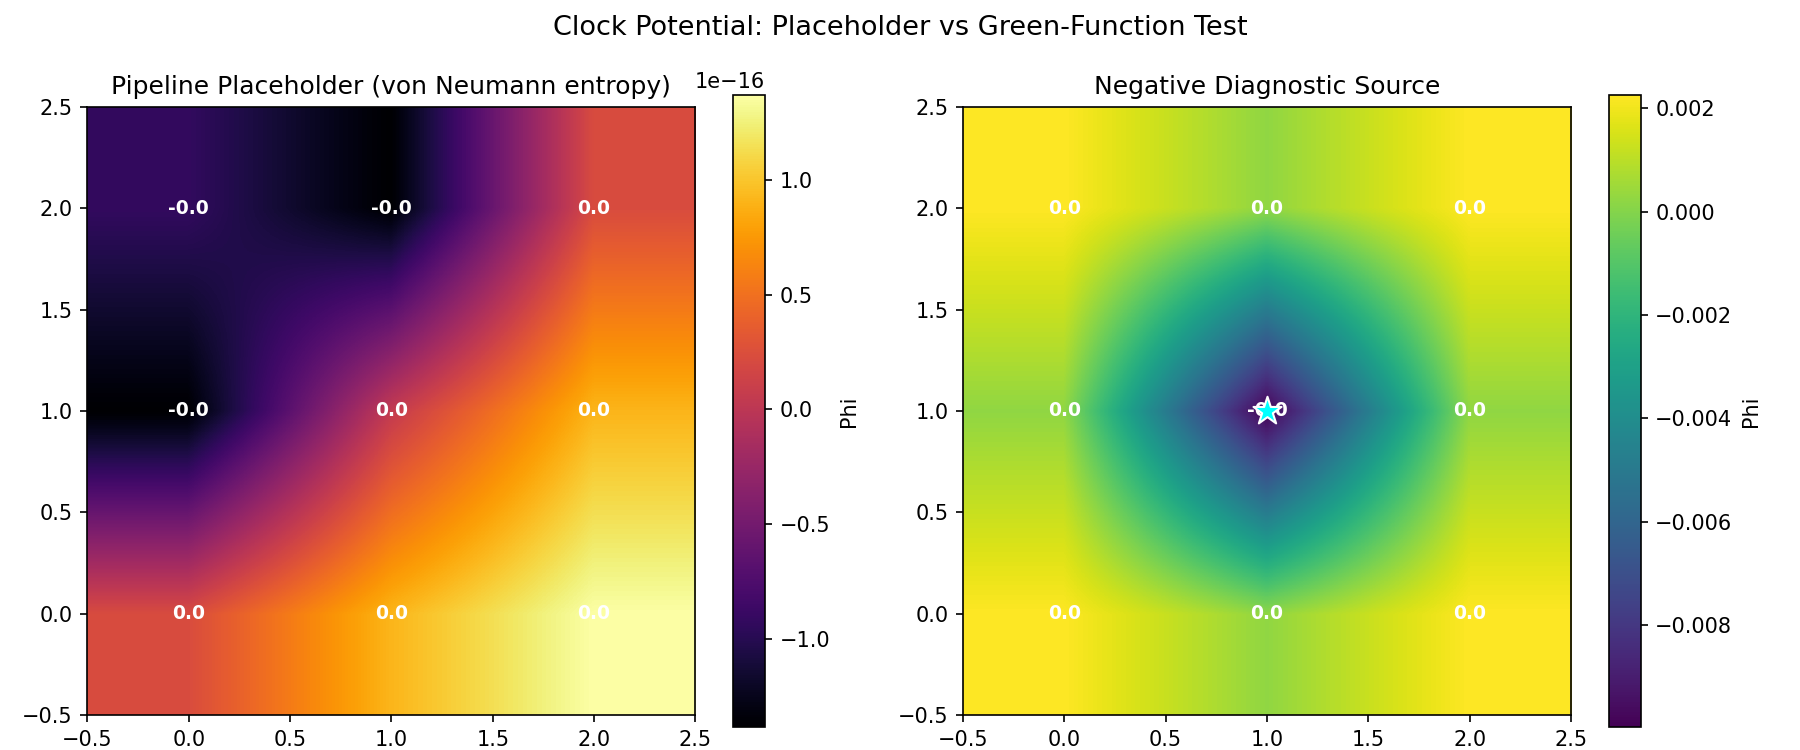
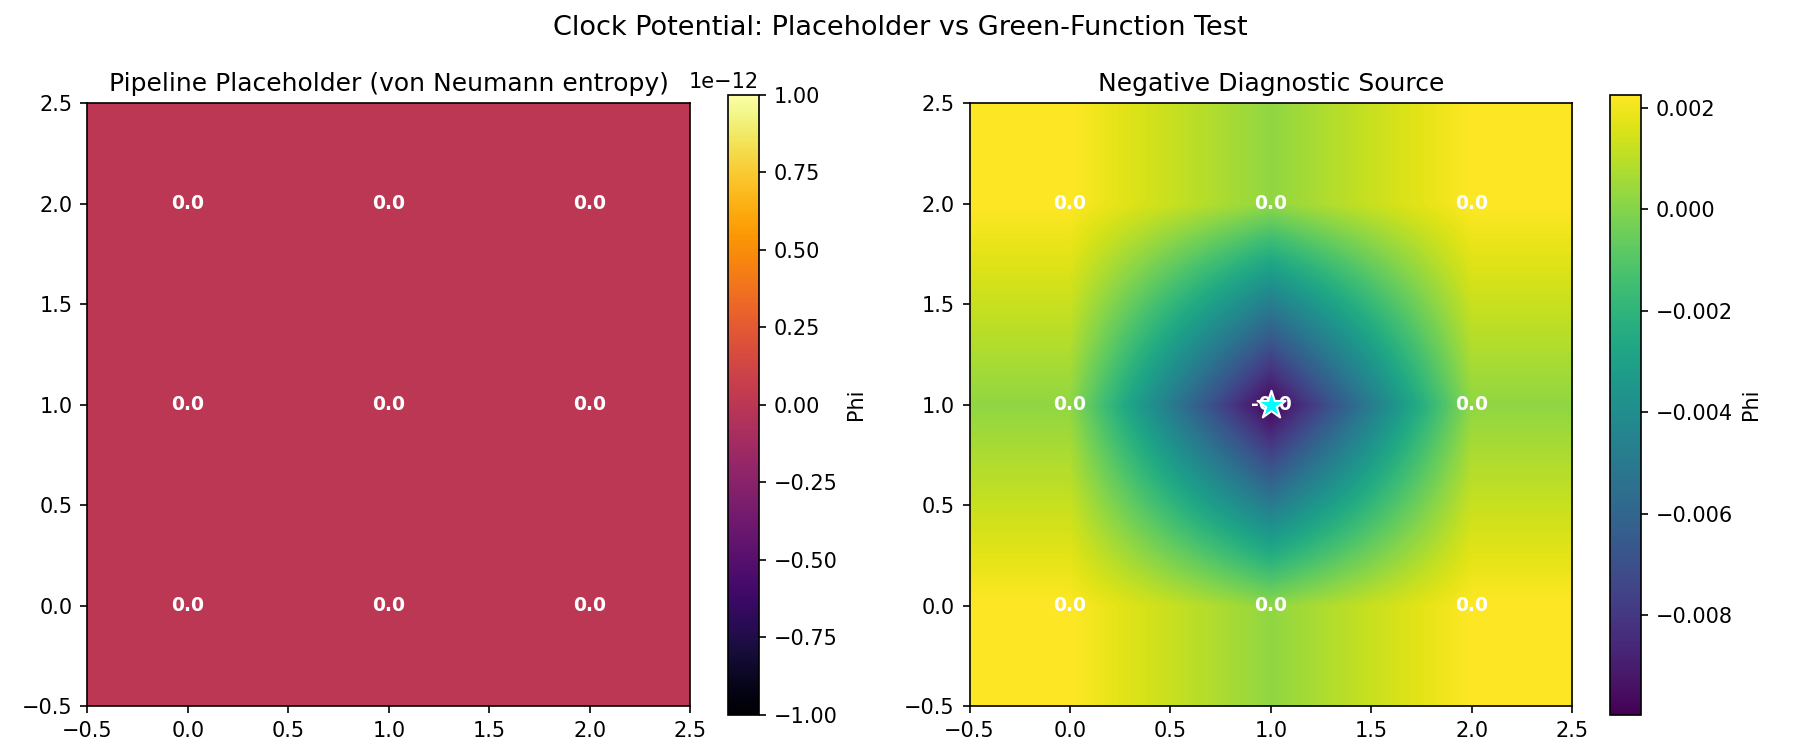
Canonicalize degenerate placeholder visuals

diff --git a/examples/physics_qg/gravity_well/__main__.py b/examples/physics_qg/gravity_well/__main__.py
@@ -327,13 +327,28 @@ print(f"Saved: {results / 'gravity_embedding.png'}")
 if phi_natural is not None:
     fig3, (ax4, ax5) = plt.subplots(1, 2, figsize=(12, 5))
 
-    im4 = ax4.imshow(phi_natural.reshape(HEIGHT, WIDTH), cmap="inferno",
-                      origin="lower", interpolation="bilinear")
+    natural_placeholder_degenerate = (
+        float(np.ptp(phi_natural)) < 1e-12
+        and float(np.max(np.abs(phi_natural))) < 1e-12
+    )
+    phi_natural_display = (
+        np.zeros_like(phi_natural) if natural_placeholder_degenerate else phi_natural
+    )
+    natural_display_limits = (
+        {"vmin": -1e-12, "vmax": 1e-12} if natural_placeholder_degenerate else {}
+    )
+    im4 = ax4.imshow(
+        phi_natural_display.reshape(HEIGHT, WIDTH),
+        cmap="inferno",
+        origin="lower",
+        interpolation="bilinear",
+        **natural_display_limits,
+    )
     fig3.colorbar(im4, ax=ax4, label="Phi")
     ax4.set_title("Pipeline Placeholder (von Neumann entropy)")
     for iy in range(HEIGHT):
         for ix in range(WIDTH):
-            val = phi_natural[iy * WIDTH + ix]
+            val = phi_natural_display[iy * WIDTH + ix]
             ax4.text(ix, iy, f"{val:.1f}", ha="center", va="center",
                      fontsize=9, fontweight="bold", color="white")
 

diff --git a/examples/physics_qg/grid_2d/__main__.py b/examples/physics_qg/grid_2d/__main__.py
@@ -157,12 +157,19 @@ if result.pi_time is not None:
     phi_mean = phi.mean()
 
     fig, ax = plt.subplots(figsize=(6, 5))
-    im = ax.imshow(phi_grid, cmap="inferno", origin="lower")
-    fig.colorbar(im, ax=ax, label="Phi (Clock-Rate Potential)")
     effective_source_norm = float(
         torch.linalg.vector_norm(result.pi_time.delta_rho).item()
     )
     placeholder_degenerate = effective_source_norm < 1e-12 and phi_range < 1e-12
+    display_phi_grid = np.zeros_like(phi_grid) if placeholder_degenerate else phi_grid
+    display_limits = {"vmin": -1e-12, "vmax": 1e-12} if placeholder_degenerate else {}
+    im = ax.imshow(
+        display_phi_grid,
+        cmap="inferno",
+        origin="lower",
+        **display_limits,
+    )
+    fig.colorbar(im, ax=ax, label="Phi (Clock-Rate Potential)")
     ax.set_title("Placeholder Clock Diagnostic (Constant Source Removed)")
     if placeholder_degenerate:
         ax.text(
@@ -176,7 +183,7 @@ if result.pi_time is not None:
 
     for iy in range(HEIGHT):
         for ix in range(WIDTH):
-            ax.text(ix, iy, f"{phi_grid[iy, ix]:.1f}",
+            ax.text(ix, iy, f"{display_phi_grid[iy, ix]:.1f}",
                     ha="center", va="center", fontsize=8, color="white")
 
     fig.tight_layout()

diff --git a/reviews/codex/POPGP-VIA000-R2-REMEDIATION-PLAN.md b/reviews/codex/POPGP-VIA000-R2-REMEDIATION-PLAN.md
@@ -26,6 +26,8 @@ fresh preregistration before any new holdout execution.
 2. Raster outputs compare format, geometry, mode, frame count, normalized mean pixel
    error, and the fraction of channels with a large error. Encoded bytes and metadata
    are not treated as scientific observables.
+   Plot fields already classified as zero at roundoff are rendered from canonical zero
+   display data with fixed color limits, while their raw diagnostics remain unchanged.
 3. Regeneration may modify only artifacts declared by the validation documents. Any
    source/configuration change or untracked repository residue fails closed.
 4. A base interpreter snapshots every `.pth`, `sitecustomize.py`, and
